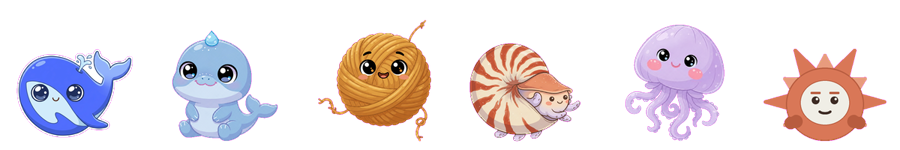
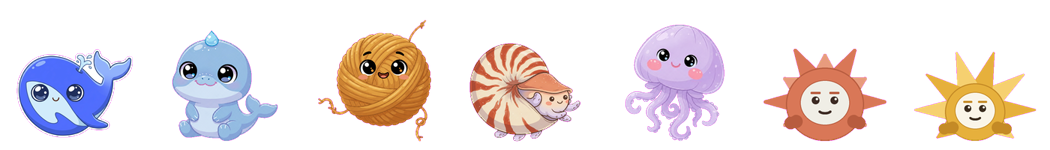
feat(skins): add a seventh skin from a second Spec
The generic generator claimed a skin was a palette and a few proportions. This
is the claim tested: `star` is thirteen lines in `SPECS` and no new drawing
code, and it is deliberately not a recolour — ten equal rays reaching further
over a smaller body is a different silhouette, which is the thing a palette
swap cannot give you.

Two knobs came out of actually trying it, both places where Claude's values had
been baked in as universals:

* `crest_alt` — the odd rays were hardcoded to 0.78 of the even ones.
  Alternating lengths read as a mane, which is right for Claude and wrong for a
  star; 1.0 makes them equal.
* `prop_scale`, and the split between `_at` and `_overhead`. Prop offsets were
  body-relative, which is not far enough: star's crest reaches 170 against
  Claude's 152, so its question mark landed on a ray. It stayed perfectly
  legible, but it fused with the body and the gate reported prop mass dropping
  217px -> 20px — the warning that cannot distinguish a merged prop from a
  vanished one. Pushing the free glyphs out clears it. The pencil deliberately
  does not scale: it is held, so it has to track the hand.

Gate: baseline 187.0, exactly where bluewhale, jellyfish and claude sit, so the
cross-skin spread is unchanged at 5.2px. No holes, no plate contamination,
gif-vs-png within 0.3%, body area steady to 1% across every loop, and no new
warnings — the three that remain are the pre-existing bluewhale and nautilus
ones.
[…]

diff --git a/scripts/draw_skin.py b/scripts/draw_skin.py
@@ -132,11 +132,20 @@ class Shape:
     crest_reach: float = 152.0
     crest_w0: float = 24.0
     crest_w1: float = 5.0
+    # How long the odd rays are relative to the even ones. Alternating lengths
+    # read as a mane; 1.0 makes every ray equal, which is what reads as a star.
+    crest_alt: float = 0.78
     # No ray tip may come closer than this to the belly line.
     crest_floor_margin: float = 10.0
     # Rays aimed more steeply downward than this are dropped rather than
     # shortened: clamping them left a row of stubs under the body.
     crest_down_limit: float = 0.62
+
+    # How far out the overhead glyphs sit, relative to the reference body. A
+    # longer crest needs a bigger number or the glyph lands on a ray: it stays
+    # legible, but it fuses with the body and the gate can no longer tell a
+    # merged prop from a vanished one.
+    prop_scale: float = 1.0
 
     arm_w0: float = 17.0
     arm_w1: float = 13.0
@@ -170,6 +179,33 @@ SPECS: dict[str, Spec] = {
             body_light=(232, 155, 125),
             face=(240, 238, 230),
             ink=(61, 43, 36),
+        ),
+    ),
+    # Distances to the plate, summed over channels: body 396, dark 412,
+    # light 360, face 273, ink 466.
+    "star": Spec(
+        palette=Palette(
+            body=(230, 176, 60),
+            body_dark=(196, 138, 38),
+            body_light=(246, 208, 112),
+            face=(250, 245, 232),
+            ink=(58, 44, 30),
+        ),
+        shape=Shape(
+            body_rx=86.0,
+            body_ry=82.0,
+            face_rx=58.0,
+            face_ry=53.0,
+            eye_dx=21.0,
+            mouth_dy=20.0,
+            crest_rays=10,
+            crest_alt=1.0,
+            crest_inner=68.0,
+            crest_reach=170.0,
+            crest_w0=30.0,
+            crest_w1=3.0,
+            arm_shoulder_inset=22.0,
+            prop_scale=1.14,
         ),
     ),
 }
@@ -337,8 +373,7 @@ class Pen:
             spread = 1.0 - droop / 90.0
             a = math.radians(90.0 + (360.0 * i / s.crest_rays - 90.0) * spread + phase)
             dx, dy = math.cos(a), -math.sin(a)
-            # Long and short rays alternate: even lengths read as a comb.
-            length = reach * (1.0 if i % 2 == 0 else 0.78)
+            length = reach * (1.0 if i % 2 == 0 else s.crest_alt)
             if dy > s.crest_down_limit:
                 # Aimed almost straight down. Clamping these to the belly line
                 # left a row of stubs under the body; the silhouette is round
@@ -460,7 +495,15 @@ class Pen:
     # and a prop in a plate-adjacent colour is keyed away with the background.
 
     def _at(self, dx: float, dy: float) -> tuple[float, float]:
+        """Body-relative. For anything held, which must track the hand."""
+
         return self.cx + dx, self.body_cy + dy
+
+    def _overhead(self, dx: float, dy: float) -> tuple[float, float]:
+        """Body-relative and pushed out past the crest. For the free glyphs."""
+
+        k = self.s.prop_scale
+        return self.cx + dx * k, self.body_cy + dy * k
 
     def pencil(self, dx: float, dy: float, angle: float) -> None:
         p, c = self.p, self.c
@@ -474,7 +517,7 @@ class Pen:
 
     def question(self, dx: float, dy: float, lean: float, scale: float) -> None:
         p, c = self.p, self.c
-        cx, cy = self._at(dx, dy)
+        cx, cy = self._overhead(dx, dy)
         a = math.radians(lean)
         ca, sa = math.cos(a), math.sin(a)
 
@@ -487,21 +530,21 @@ class Pen:
 
     def bang(self, dx: float, dy: float, scale: float) -> None:
         p, c = self.p, self.c
-        cx, cy = self._at(dx, dy)
+        cx, cy = self._overhead(dx, dy)
         c.cone(cx, cy - 22.0 * scale, cx, cy + 9.0 * scale,
                6.6 * scale, 4.4 * scale, p.ink)
         c.ellipse(cx, cy + 22.0 * scale, 5.6 * scale, 5.6 * scale, p.ink)
 
     def zed(self, dx: float, dy: float, scale: float) -> None:
         p, c = self.p, self.c
-        cx, cy = self._at(dx, dy)
+        cx, cy = self._overhead(dx, dy)
         d = 13.0 * scale
         c.curve([(cx - d, cy - d), (cx + d, cy - d), (cx - d, cy + d), (cx + d, cy + d)],
                 4.2 * scale, p.face)
 
     def sparkle(self, dx: float, dy: float, scale: float) -> None:
         p, c = self.p, self.c
-        cx, cy = self._at(dx, dy)
+        cx, cy = self._overhead(dx, dy)
         d = 15.0 * scale
         c.cone(cx, cy - d, cx, cy + d, 4.2 * scale, 4.2 * scale, p.face)
         c.cone(cx - d, cy, cx + d, cy, 4.2 * scale, 4.2 * scale, p.face)

diff --git a/tests/test_userskins.py b/tests/test_userskins.py
@@ -122,7 +122,8 @@ class ShippedArtIsolationTests(unittest.TestCase):
     def test_the_builtin_list_is_what_the_art_gates_iterate(self) -> None:
         self.assertEqual(
             [s.id for s in skins.BUILTIN_SKINS],
-            ["deepseek", "bluewhale", "threadcore", "nautilus", "jellyfish", "claude"],
+            ["deepseek", "bluewhale", "threadcore", "nautilus", "jellyfish", "claude",
+             "star"],
         )
         for skin in skins.BUILTIN_SKINS:
             self.assertTrue(skin.builtin)

diff --git a/src/dsh_macos_pet/skins.py b/src/dsh_macos_pet/skins.py
@@ -51,6 +51,7 @@ BUILTIN_SKINS: tuple[Skin, ...] = (
     Skin(id="nautilus", name="Nautilus", name_zh="鹦鹉螺"),
     Skin(id="jellyfish", name="Jellyfish", name_zh="水母"),
     Skin(id="claude", name="Claude", name_zh="Claude"),
+    Skin(id="star", name="Star", name_zh="星星"),
 )
 
 DEFAULT_SKIN_ID = "deepseek"

diff --git a/README.md b/README.md
@@ -123,7 +123,7 @@ stateDiagram-v2
 
 在右键菜单的皮肤子菜单里挑，或者用 `--skin <id>` 指定启动时用哪套。每套六个状态齐全，每个状态三帧。
 
-前五套是图像模型画的。**Claude 那套是几何画的** —— [scripts/draw_skin.py](scripts/draw_skin.py) 用纯标准库生成十八张源图，再走和其他皮肤同一条构建管线。所以没有生图工具、没有 API 额度也能重现它，而且每次生成的结果逐字节一致。想照这个路子做自己的皮肤，它可以当模板。
+前五套是图像模型画的。**Claude 和星星是几何画的** —— [scripts/draw_skin.py](scripts/draw_skin.py) 用纯标准库生成十八张源图，再走和其他皮肤同一条构建管线。所以没有生图工具、没有 API 额度也能重现它，而且每次生成的结果逐字节一致。想照这个路子做自己的皮肤，它可以当模板。
 
 | 皮肤 | 动起来 |
 |---|---|
@@ -133,6 +133,7 @@ stateDiagram-v2
 | **鹦鹉螺** | <img src="docs/media/loop-nautilus.gif" width="120" alt="nautilus"> |
 | **水母** | <img src="docs/media/loop-jellyfish.gif" width="120" alt="jellyfish"> |
 | **Claude** | <img src="docs/media/loop-claude.gif" width="120" alt="claude"> |
+| **星星** | <img src="docs/media/loop-star.gif" width="120" alt="star"> |
 
 > 空闲是 2.4 秒静止，然后一次很短的眨眼。三帧均分我试过，效果不好。
 
@@ -169,6 +170,11 @@ stateDiagram-v2
   <img src="docs/media/skin-claude.png" width="820" alt="claude">
 </p>
 <p align="center"><sub>Claude</sub></p>
+
+<p align="center">
+  <img src="docs/media/skin-star.png" width="820" alt="star">
+</p>
+<p align="center"><sub>星星</sub></p>
 
 ### 用一张图做你自己的皮肤
 

diff --git a/README_EN.md b/README_EN.md
@@ -135,7 +135,7 @@ stateDiagram-v2
 Pick one from the Skin submenu, or start on it with `--skin <id>`. Every skin
 has all six states at three frames each.
 
-The first five came out of an image model. **The Claude one is drawn**:
+The first five came out of an image model. **Claude and Star are drawn**:
 [scripts/draw_skin.py](scripts/draw_skin.py) renders its
 eighteen stills from geometry in pure standard library, and they go through the
 same build pipeline as every other skin. So it reproduces with no image tool and
@@ -150,6 +150,7 @@ draw a skin than generate one.
 | **Nautilus** | <img src="docs/media/loop-nautilus.gif" width="120" alt="nautilus"> |
 | **Jellyfish** | <img src="docs/media/loop-jellyfish.gif" width="120" alt="jellyfish"> |
 | **Claude** | <img src="docs/media/loop-claude.gif" width="120" alt="claude"> |
+| **Star** | <img src="docs/media/loop-star.gif" width="120" alt="star"> |
 
 > Idle is 2.4 seconds of stillness and then a very short blink. I tried giving the
 > three frames equal time and it did not look right.
@@ -187,6 +188,11 @@ In order: idle · working · waiting · error · happy · sleeping
   <img src="docs/media/skin-claude.png" width="820" alt="claude">
 </p>
 <p align="center"><sub>Claude</sub></p>
+
+<p align="center">
+  <img src="docs/media/skin-star.png" width="820" alt="star">
+</p>
+<p align="center"><sub>Star</sub></p>
 
 **Make your own from a picture.** Hand an image to your agent and ask it to make
 a desk pet skin. A skill ships with the plugin that turns one image into the

diff --git a/SKINS.md b/SKINS.md
@@ -77,6 +77,7 @@
 | 鹦鹉螺 | ![nautilus](docs/media/skin-nautilus.png) | 内置 | |
 | 水母 | ![jellyfish](docs/media/skin-jellyfish.png) | 内置 | |
 | Claude | ![claude](docs/media/skin-claude.png) | 内置 | 几何绘制，不需要生图工具 |
+| 星星 | ![star](docs/media/skin-star.png) | 内置 | 同一个生成器，另一份 Spec |
 
 <!-- 社区投稿从这一行下面开始追加 -->
 
